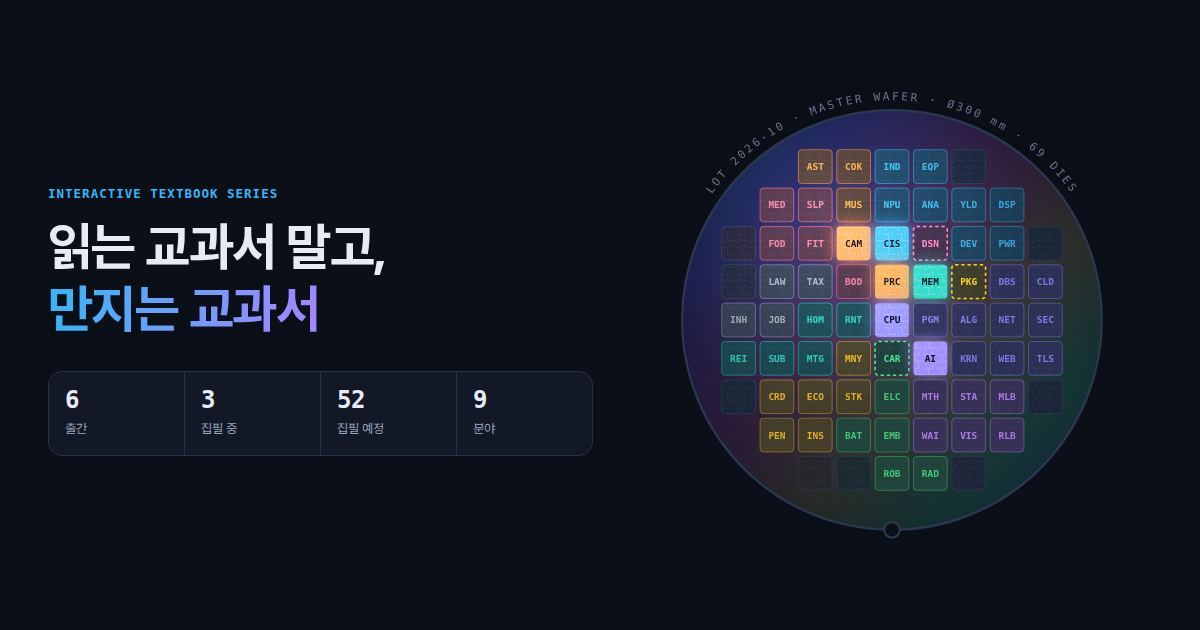
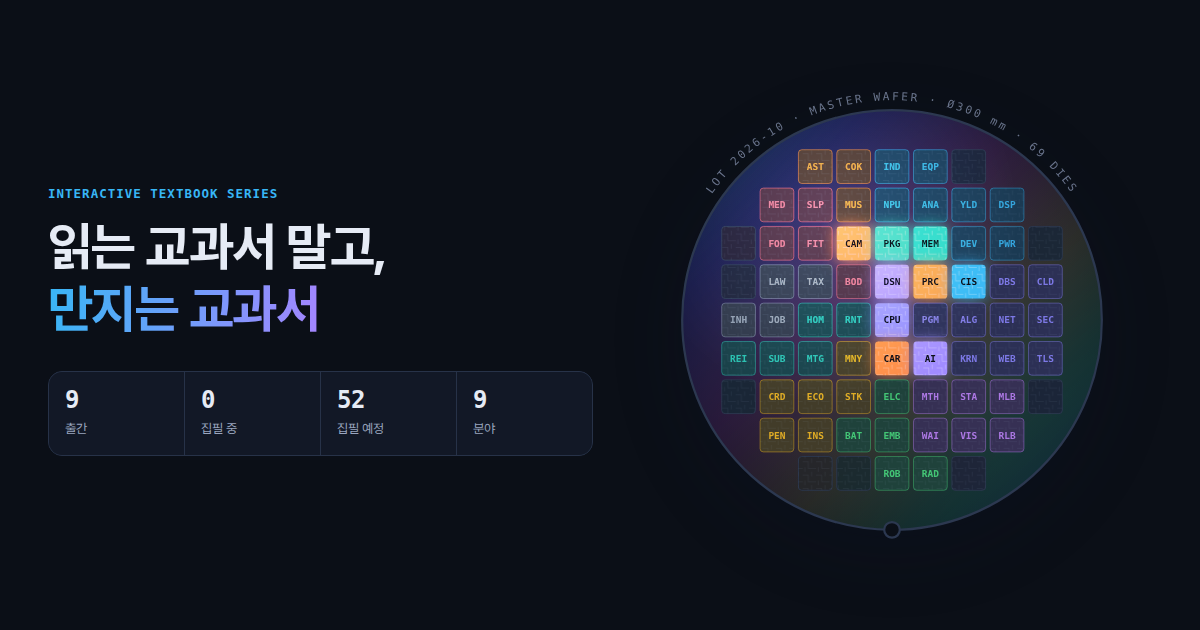
Publish CarBook, DesignBook and PackagingBook
- Mark all three as published with their URLs, headlines, chapter and
  simulator counts, topics and site accent colors.
- Add two featured simulator captures per book (img/sims/).
- Sort published semiconductor books by value-chain stage.
- Field map chips can break before "Book" in narrow columns.
- Regenerated og.png.

Claude-Session: https://claude.ai/code/session_01FmDfRm9DF5RWtBmyFTpFBo

Changed region(s): [[0.7092, 0.3317, 0.8325, 0.4825], [0.7092, 0.5127, 0.7708, 0.6032], [0.1542, 0.6032, 0.185, 0.6333]]

diff --git a/css/style.css b/css/style.css
@@ -256,7 +256,8 @@ section.block { padding: 56px 0; border-top: 1px solid var(--border); }
   .chain.cols-5 { grid-template-columns: repeat(5, minmax(0, 1fr)); }
   .chain.cols-6 { grid-template-columns: repeat(6, minmax(0, 1fr)); gap: 18px; }
   .chain.cols-6 .stage { padding: 14px 12px; }
-  .chain.cols-6 .chip { padding: 8px 9px; gap: 8px; font-size: 13.5px; }
+  .chain.cols-6 .chip { padding: 8px; gap: 7px; font-size: 12.5px; letter-spacing: -0.01em; }
+  .chain.cols-6 .chip .sq { width: 26px; height: 26px; font-size: 9px; }
 }
 .stage {
   position: relative; background: var(--bg-elev); border: 1px solid var(--border); border-radius: var(--radius);

diff --git a/js/field.js b/js/field.js
@@ -63,7 +63,7 @@ EB.start(null, (d) => {
     EB.tint(a, b);
     a.href = EB.readUrl(b) || `#card-${b.id}`;
     if (!EB.readUrl(b)) a.dataset.jump = b.id;
-    a.innerHTML = `<span class="sq">${esc(b.code)}</span><span>${esc(b.title)}<small>${esc(EB.isPublished(b) ? b.subtitle : `${b.subtitle} · ${EB.status(b)}`)}</small></span>`;
+    a.innerHTML = `<span class="sq">${esc(b.code)}</span><span>${esc(b.title).replace(/Book$/, "<wbr>Book")}<small>${esc(EB.isPublished(b) ? b.subtitle : `${b.subtitle} · ${EB.status(b)}`)}</small></span>`;
     return a;
   }
 
